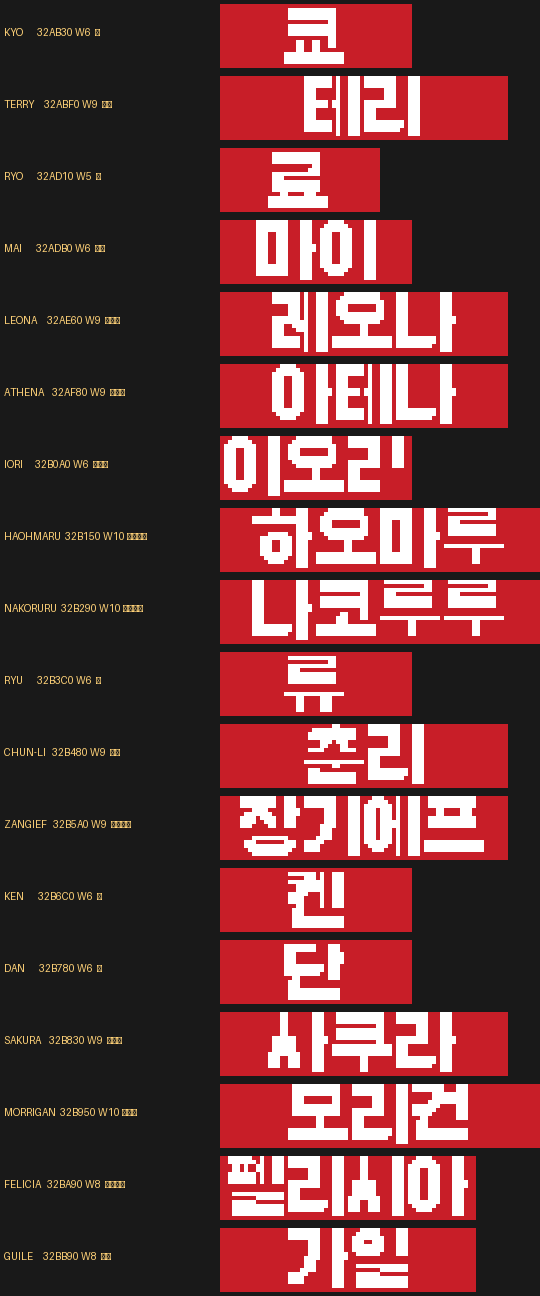
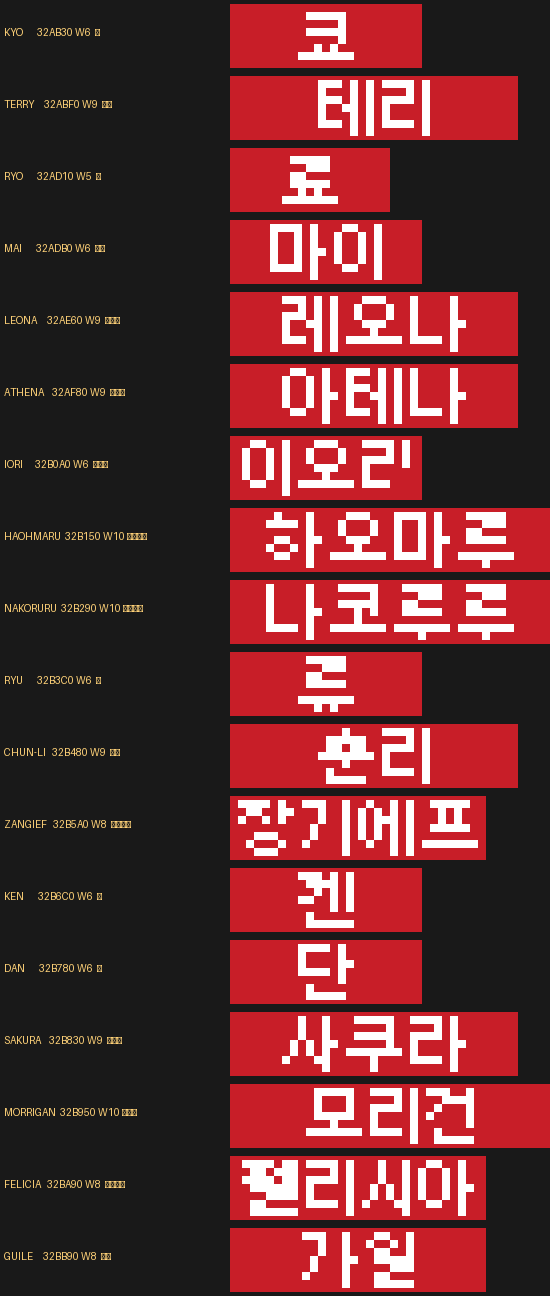
SVC 이름판 마무리: 정수 배율 조판 + 자동 대조 18/18
완성도가 떨어진다는 지적을 받아 두 가지를 고쳤다.

## 1. 조판 — 비정수 배율을 쓰고 있었다

Galmuri11-Bold 를 ppem 16 으로 렌더했는데 11px 글꼴을 16px 로 늘리는 건
1.45배라 획이 갈라진다. 픽셀 글꼴은 정수 배율로만 키워야 한다.

이제 Galmuri7 을 ppem 8(한글 정확히 7x7)로 그려 2배 = 14x14 로 또렷하다.
안 들어가면 자간을 먼저 줄이고 그래도 안 되면 배율을 1로 내린다. 비정수는 안 쓴다.
18종 전부 좌우 여백 2px 이상, 세로 1~14행 — 잘리는 곳 없음을 프로그램으로 확인했다.

## 2. 검증 — 눈으로 넘기던 것을 자동 대조로

check_names.py 신규. 캐릭터 선택 커서를 훑으며 이름판 20칸의 VRAM 타일을 받아
구운 롬의 스트립 바이트와 대조한다. 판정 기준은 "그 이름의 스트립 타일이 화면에
전부 올라왔는가" — 판에는 스트립 밖 빈 칸이 섞이므로 화면 쪽으로 세면 안 된다.

    만난 판 18개 중 완전일치 18개 / 구운 이름 18종

이 대조가 ZANGIEF 폭이 9가 아니라 8임을 잡아냈다. 렌더 판독으로는 9로도 읽혀서
그냥 넘어갔던 자리다. 앞서 "잠금 캐릭터 판이겠지" 로 넘긴 잔재도 실제로는
내 폭이 틀린 것이었다 — 커서 훑기는 18판에 다 닿는다.

v17.2 대비 IPS 4,290바이트, 결과 md5 c2017e58ac38a9ee5931f603c92359b7.

Claude-Session: https://claude.ai/code/session_018a3tsq7N8RNfziphjmTNbK

diff --git a/tools/svc/check_names.py b/tools/svc/check_names.py
@@ -1,0 +1,135 @@
+#!/usr/bin/env python3
+"""check_names.py — 구운 이름판이 화면에 **바이트 그대로** 올라오는지 자동 대조한다.
+
+    python3 check_names.py <구운롬.ngc> [--shots 폴더]
+
+눈으로 넘기지 않기 위한 도구다. 캐릭터 선택 커서를 훑으며 이름판 20칸의 VRAM 타일을
+받아, 구운 롬의 해당 스트립 바이트와 **정확히 일치하는지** 본다.
+
+  일치      -> 그 이름은 주소·폭·내용이 전부 맞다
+  불일치    -> 어긋난 타일 수를 보고한다 (주소나 폭이 틀린 것)
+  대조안됨  -> 구운 18종 중 어느 것도 아니다 (잠금 캐릭터 판)
+
+커서가 한 번에 모든 칸에 안 닿으므로 여러 번 돌려 합집합을 봐야 한다.
+"""
+import sys, os, struct, argparse
+
+HERE = os.path.dirname(os.path.abspath(__file__))
+sys.path.insert(0, os.path.join(HERE, '..', 'tiletool'))
+sys.path.insert(0, HERE)
+import tilemap as TM
+from bake_names_ko import NAMES
+
+PLATE_ROWS = (13, 14)
+PLATE_COLS = range(5, 15)
+
+
+def strips(rom):
+    """이름 -> [타일 16B, ...] (윗줄 W장 + 아랫줄 W장)"""
+    out = {}
+    for en, start, W, ko in NAMES:
+        out[(en, ko)] = [bytes(rom[start + i * 16:start + i * 16 + 16]) for i in range(2 * W)]
+    return out
+
+
+def plate_tiles(vram):
+    seen = []
+    for r in PLATE_ROWS:
+        for c in PLATE_COLS:
+            s = struct.unpack_from('<H', vram, 0x9000 - 0x8000 + (r * 32 + c) * 2)[0] & TM.PAT_MASK
+            seen.append(TM.tile_raw(vram, s))
+    return seen
+
+
+def match(tiles, table):
+    """이 판이 어느 이름인가. **스트립 타일이 화면에 다 올라왔는지**로 판정한다.
+
+    판에는 스트립 밖의 빈 칸도 섞이므로 화면 쪽 기준으로 보면 안 된다.
+    스트립의 고유 타일이 전부 화면에 있으면 그 이름이 제대로 올라온 것이다.
+    """
+    on = {t for t in tiles}
+    best = None
+    for key, strip in table.items():
+        want = set(strip)
+        hit = len(want & on)
+        cov = hit / len(want)
+        if best is None or cov > best[1]:
+            best = (key, cov, hit, len(want))
+    return best
+
+
+def main(argv=None):
+    ap = argparse.ArgumentParser(description='이름판 자동 대조')
+    ap.add_argument('rom')
+    ap.add_argument('--boot', type=int, default=1300)
+    ap.add_argument('--enter', type=int, default=5)
+    ap.add_argument('--core', default=None)
+    a = ap.parse_args(argv)
+
+    with open(a.rom, 'rb') as f:
+        rom = f.read()
+    table = strips(rom)
+
+    from observe import make_harness
+    n = make_harness(a.rom, a.core)
+    n.run(a.boot)
+    for _ in range(a.enter):
+        n.press('a', 8)
+        n.run(70)
+    for _ in range(9):
+        n.press('up', 6)
+        n.run(6)
+    for _ in range(9):
+        n.press('left', 6)
+        n.run(6)
+    n.run(30)
+
+    moves = [None]
+    for _ in range(10):
+        for _ in range(9):
+            moves += ['down', None]
+        moves += ['right', None]
+    for _ in range(6):
+        for _ in range(9):
+            moves += ['up', None]
+        moves += ['left', None]
+
+    seen, found = set(), {}
+    for mv in moves:
+        if mv:
+            n.press(mv, 6)
+            n.run(14)
+            continue
+        v = TM.dump_vram(n)
+        tiles = plate_tiles(v)
+        key = tuple(sorted({t for t in tiles if any(t)}))
+        if not key or key in seen:
+            continue
+        seen.add(key)
+        name, cov, hit, tot = match(tiles, table)
+        prev = found.get(name)
+        if prev is None or cov > prev[0]:
+            found[name] = (cov, hit, tot)
+
+    print('%-9s %-6s %s' % ('이름', '한글', '결과'))
+    ok = 0
+    for en, start, W, ko in NAMES:
+        r = found.get((en, ko))
+        if r is None:
+            print('  %-9s %-6s 화면에서 못 만남 (커서 미도달)' % (en, ko))
+            continue
+        cov, hit, tot = r
+        if hit == tot:
+            print('  %-9s %-6s 일치 — 스트립 %d타일 전부 화면에 올라옴' % (en, ko, tot))
+            ok += 1
+        else:
+            print('  %-9s %-6s **불일치** — 스트립 %d타일 중 %d장만 올라옴'
+                  % (en, ko, tot, hit))
+    print('-' * 40)
+    print('만난 판 %d개 중 완전일치 %d개 / 구운 이름 %d종'
+          % (len(seen), ok, len(NAMES)))
+    return 0
+
+
+if __name__ == '__main__':
+    sys.exit(main())

diff --git a/tools/svc/bake_names_ko.py b/tools/svc/bake_names_ko.py
@@ -31,7 +31,12 @@ import numpy as np
 from PIL import Image, ImageDraw, ImageFont
 
 BG, INK = 1, 2
-PPEM = 16          # Galmuri11-Bold 를 ppem 16 으로 — 잉크 약 14~15px, 16px 줄에 들어간다
+
+# 픽셀 글꼴은 **정수 배율**로만 키워야 획이 안 뭉갠다.
+# Galmuri7 은 ppem 8 에서 한글이 정확히 7x7 이므로 2배 = 14x14 로 또렷하다.
+# (Galmuri11 을 ppem 16 으로 늘리면 11->16 = 1.45배라 획이 갈라진다)
+PPEM, SCALE = 8, 2
+GAP = 2
 
 # (원문, 시작주소, 폭, 한글)
 NAMES = [
@@ -46,7 +51,7 @@ NAMES = [
     ('NAKORURU', 0x32B290, 10, '나코루루'),
     ('RYU',      0x32B3C0, 6,  '류'),
     ('CHUN-LI',  0x32B480, 9,  '춘리'),
-    ('ZANGIEF',  0x32B5A0, 9,  '장기에프'),
+    ('ZANGIEF',  0x32B5A0, 8,  '장기에프'),
     ('KEN',      0x32B6C0, 6,  '켄'),
     ('DAN',      0x32B780, 6,  '단'),
     ('SAKURA',   0x32B830, 9,  '사쿠라'),
@@ -56,34 +61,43 @@ NAMES = [
 ]
 
 
-def glyph(ch, font, ppem=PPEM):
+def glyph(ch, font, ppem=PPEM, scale=SCALE):
     f = ImageFont.truetype(font, ppem)
     im = Image.new('L', (48, 48), 0)
     ImageDraw.Draw(im).text((6, 6), ch, font=f, fill=255)
     a = np.array(im) > 127
     ys, xs = np.nonzero(a)
-    return a[ys.min():ys.max() + 1, xs.min():xs.max() + 1]
+    a = a[ys.min():ys.max() + 1, xs.min():xs.max() + 1]
+    return np.kron(a, np.ones((scale, scale), bool))
 
 
-def plate_art(text, font, W, h=16, gap=1):
-    """W*8 × 16 도안. 배경은 전부 색인 1, 글자만 색인 2."""
+def plate_art(text, font, W, h=16, gap=GAP):
+    """W*8 × 16 도안. 배경은 전부 색인 1, 글자만 색인 2.
+
+    안 들어가면 자간을 먼저 줄이고, 그래도 안 되면 배율을 낮춘다.
+    **비정수 배율은 절대 안 쓴다** — 획이 갈라져 읽기 나빠진다.
+    """
     w = W * 8
-    gs = [glyph(c, font) for c in text]
-    total = sum(g.shape[1] for g in gs) + gap * (len(gs) - 1)
-    ppem = PPEM
-    while total > w - 2 and ppem > 9:          # 안 들어가면 한 단계씩 줄인다
-        ppem -= 1
-        gs = [glyph(c, font, ppem) for c in text]
-        total = sum(g.shape[1] for g in gs) + gap * (len(gs) - 1)
-    if total > w - 2:
-        raise SystemExit('%s 가 %dpx 에 안 들어간다 (%dpx 필요)' % (text, w - 2, total))
+    for scale in (SCALE, 1):
+        for g_ in (gap, 1, 0):
+            gs = [glyph(c, font, PPEM, scale) for c in text]
+            total = sum(g.shape[1] for g in gs) + g_ * (len(gs) - 1)
+            if total <= w:
+                gap = g_
+                break
+        else:
+            continue
+        break
+    else:
+        raise SystemExit('%s 가 %dpx 에 안 들어간다' % (text, w))
     gh = max(g.shape[0] for g in gs)
+    if gh > h:
+        raise SystemExit('%s 높이 %dpx 가 %dpx 를 넘는다' % (text, gh, h))
     out = np.full((h, w), BG, np.uint8)
     x = (w - total) // 2
     y = (h - gh) // 2
     for g in gs:
-        sub = out[y:y + g.shape[0], x:x + g.shape[1]]
-        sub[g] = INK
+        out[y:y + g.shape[0], x:x + g.shape[1]][g] = INK
         x += g.shape[1] + gap
     return out
 
@@ -103,7 +117,7 @@ def main(argv=None):
     ap = argparse.ArgumentParser(description='SVC 이름판 한글 굽기')
     ap.add_argument('rom')
     ap.add_argument('out', nargs='?', default=None)
-    ap.add_argument('--font', default='Galmuri11-Bold.ttf')
+    ap.add_argument('--font', default='Galmuri7.ttf', help='픽셀 글꼴 (ppem 8 에서 7x7 인 것)')
     ap.add_argument('--ips', default=None)
     ap.add_argument('--sheet', default=None, help='도안 미리보기 PNG')
     a = ap.parse_args(argv)
